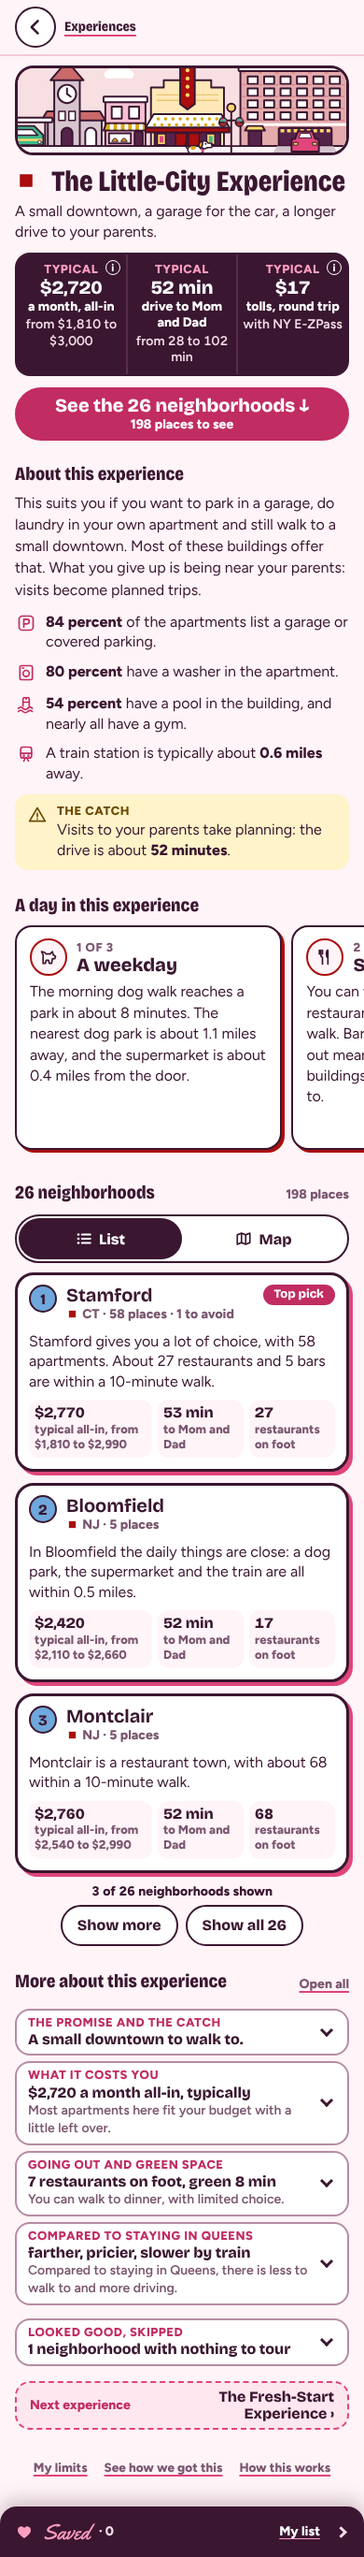
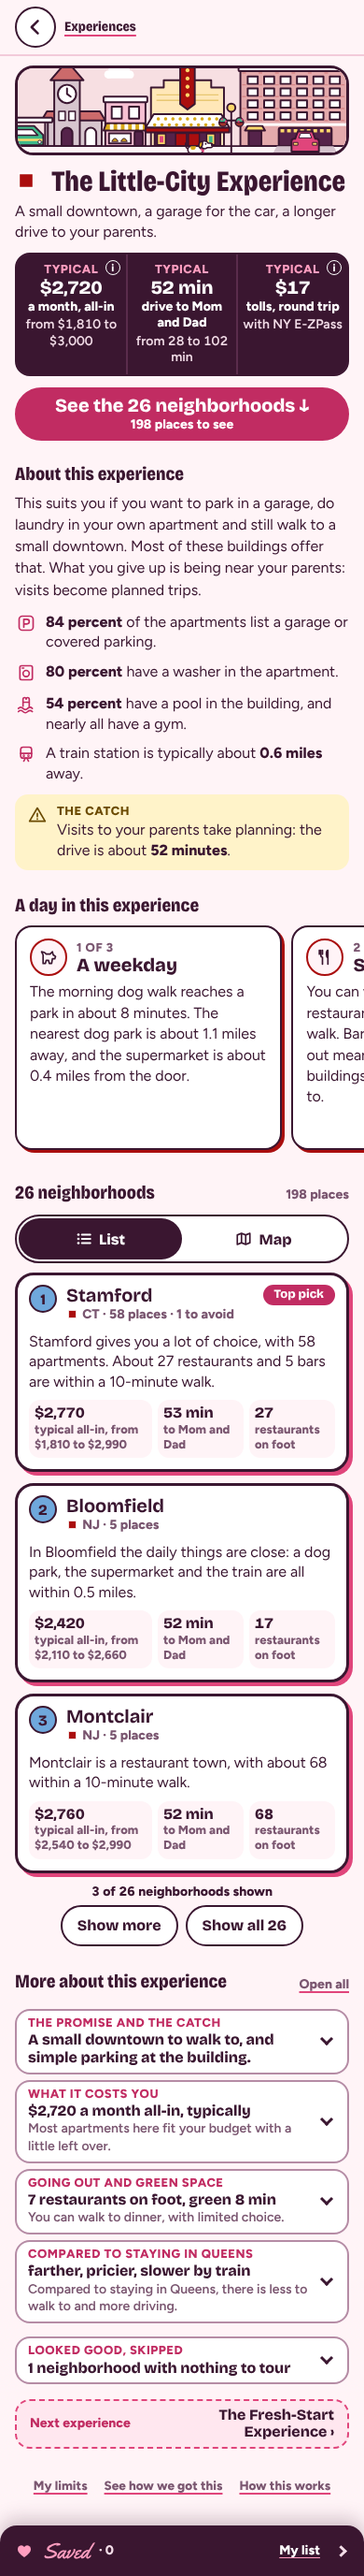
Owner rule recorded: thin single-apartment neighborhoods are cut unless well attested and promising
Claude-Session: https://claude.ai/code/session_01QmsfsQ2hk5v2h8XwNhCh1P

Changed region(s): [[0.0308, 0.0311, 1.0, 0.933], [0.8308, 0.9641, 0.8615, 0.9952]]

diff --git a/house-hunt/site/index.html b/house-hunt/site/index.html
@@ -1562,7 +1562,8 @@ function seenShort(iso){if(!iso)return "date seen not known";
   try{return "seen "+new Date(iso).toLocaleDateString("en-US",{month:"short",day:"numeric",timeZone:"America/New_York"})}catch(e){return "seen "+dayStr(iso)}}
 function seenLong(iso){if(!iso)return NK;
   try{return new Date(iso).toLocaleString("en-US",{month:"short",day:"numeric",year:"numeric",hour:"numeric",minute:"2-digit",timeZone:"America/New_York"})+" New York time"}catch(e){return String(iso)}}
-function distWords(m){if(m==null)return NK;if(m<=1600)return "a "+Math.max(1,Math.round(m/WALK_M_PER_MIN))+"-minute walk";var mi=m/1609.34;return (mi<3?Math.round(mi*10)/10:Math.round(mi))+(Math.round(mi*10)===10||(mi>=3&&Math.round(mi)===1)?" mile":" miles")+" away"}
+function aWalk(n){n=Math.max(1,Math.round(n));return (n===8||n===11||n===18||(n>=80&&n<90)?"an ":"a ")+n+"-minute walk"}
+function distWords(m){if(m==null)return NK;if(m<=1600)return aWalk(m/WALK_M_PER_MIN);var mi=m/1609.34;return (mi<3?Math.round(mi*10)/10:Math.round(mi))+(Math.round(mi*10)===10||(mi>=3&&Math.round(mi)===1)?" mile":" miles")+" away"}
 function ext(url,label){url=okUrl(url);return url?' <a class="srcl" href="'+esc(url)+'" target="_blank" rel="noopener noreferrer">'+esc(label||"source")+' ↗</a>':''}
 function hostOf(url){try{return new URL(url).hostname.replace(/^www\./,"")}catch(e){return "source"}}
 function humanize(k){k=String(k||"").replace(/_/g," ");return k.charAt(0).toUpperCase()+k.slice(1)}
@@ -1745,15 +1746,15 @@ function tourQs(U){var q=(U.tour_questions||[]).slice(),add=[];
 /* ================= Template sentences. Every sentence on the page that is not quoted evidence,
    approved year text (label, subhead) or interface copy is built here from data fields. ================= */
 var SAY={
-  size:function(U){var s="A "+bedsNoun(U)+(U.sqft!=null?" of "+r0(U.sqft)+" sq ft":", size not known yet,");
+  size:function(U){var s="A "+bedsNoun(U)+(U.sqft!=null?" of "+r0(U.sqft)+" sq ft":", size not published");
     if(U.floor!=null)s+=" on floor "+r0(U.floor)+(U.floor_basis==="inferred"?" (floor worked out from the unit number)":"");
-    else s+=", floor not known yet";return s+"."},
-  park:function(w){return w.park&&w.park_walk_min!=null?w.park+" is a "+Math.max(1,r0(w.park_walk_min))+"-minute walk.":w.park_walk_min!=null?"Green space is a "+Math.max(1,r0(w.park_walk_min))+"-minute walk.":"Walk to green space: "+NK+"."},
+    else s+=", floor not published";return s+"."},
+  park:function(w){return w.park&&w.park_walk_min!=null?w.park+" is "+aWalk(w.park_walk_min)+" away.":w.park_walk_min!=null?"A park is "+aWalk(w.park_walk_min)+" away.":"Walk to green space: "+NK+"."},
   dogpark:function(w){return w.dog_park_m==null?"Nearest dog park: "+NK+".":(w.dog_park?w.dog_park:"The nearest dog park")+" is "+distWords(w.dog_park_m)+"."},
   food:function(a){return a.restaurants_800m==null?"Restaurants nearby: "+NK+".":pl(a.restaurants_800m,"restaurant")+" and "+(a.bars_800m==null?"an unknown number of bars":pl(a.bars_800m,"bar"))+" within a 10-minute walk."},
   drive:function(s){if(s.drive_min==null)return "Drive to Mom and Dad: "+NK+".";
     return r0(s.drive_min)+" minutes by car to Mom and Dad; "+SAY.toll(s)+"."},
-  toll:function(s){return s.toll_round_trip==null?"tolls not known yet":s.toll_round_trip===0?"no tolls":money(s.toll_round_trip)+" in tolls a visit"+ezNote(s)},
+  toll:function(s){return s.toll_round_trip==null?"tolls not known yet":s.toll_round_trip===0?"no tolls":tollMoney(s.toll_round_trip)+" in tolls, round trip"+ezNote(s)},
   crime:function(n){var x=n.violent_vs_jamaica;if(x==null)return "Violent crime here: "+NK+".";
     if(Math.abs(x-1)<0.005)return "Violent crime here runs at the same rate as around Mom and Dad's.";
     return "Violent crime here runs at "+times(x)+" the rate around Mom and Dad's."},
@@ -1829,7 +1830,7 @@ function factsOf(U,k){var m=U.moments,L=okUrl(U.links&&U.links.listing),o=[],a=U
     f(n.violent_per_1000==null?"Violent crime rate: "+NK+".":r1(n.violent_per_1000)+" violent crimes per 1,000 residents a year here; "+(JAM.violent_per_1000!=null?JAM.violent_per_1000+" around Mom and Dad's.":""));
     f(n.near_violent_250m_24m==null?"Violent incidents within 250 metres: "+NK+" (police publish this only in New York City).":pl(n.near_violent_250m_24m,"violent incident")+" within 250 metres in 24 months"+(n.near_violent_evening_250m_24m!=null?", "+r0(n.near_violent_evening_250m_24m)+" of them in the evening":"")+" (police data).");
     f(n.car_crime_250m_24m==null?"Car thefts and break-ins within 250 metres: "+NK+".":pl(n.car_crime_250m_24m,"car theft or break-in","car thefts and break-ins")+" within 250 metres in 24 months (police data).");
-    f(n.vehicle_theft_per_1000==null?"Car theft rate: "+NK+".":r1(n.vehicle_theft_per_1000)+" car thefts per 1,000 residents a year.");
+    f(n.vehicle_theft_per_1000==null?"Car theft rate: "+NK+".":r1(n.vehicle_theft_per_1000)+(Number(r1(n.vehicle_theft_per_1000))===1?" car theft":" car thefts")+" per 1,000 residents a year.");
     if(n.police_geography)f("These rates describe the police area, not the block: "+n.police_geography+".")}
   else if(k==="sat"){var s=m.sat;
     f(s.bars_1600m==null?"Bars within a mile: "+NK+".":pl(s.bars_1600m,"bar")+" within a mile.");
@@ -2034,13 +2035,13 @@ function plainCats(x){return String(x).replace(/\b[a-z]+(?:_[a-z]+)+\b/g,functio
 function splitNotes(s){return String(s||"").split(/;\s*/).filter(Boolean).map(function(x){x=plainCats(x);return x.charAt(0).toUpperCase()+x.slice(1)})}
 
 function yearFacts(Y){var M=Y.medians||{},o=[];
-  if(M.all_in!=null)o.push("A typical place: "+(M.sqft!=null?r0(M.sqft)+" sq ft for ":"")+money(Math.round(M.all_in))+" a month, all-in");
-  if(M.drive_min!=null)o.push("A typical drive to Mom and Dad: "+r0(M.drive_min)+" minutes, "+(M.toll_round_trip==null?"tolls not known yet":M.toll_round_trip===0?"no tolls":money(M.toll_round_trip)+" in tolls a visit"+ezNote(M)));
-  if(M.restaurants_800m!=null)o.push(pl(M.restaurants_800m,"restaurant")+" within a 10-minute walk"+(M.park_walk_min!=null?"; green space a "+Math.max(1,r0(M.park_walk_min))+"-minute walk":""));
+  if(M.all_in!=null)o.push("A typical apartment: "+(M.sqft!=null?r0(M.sqft)+" sq ft for ":"")+money(Math.round(M.all_in))+" a month, all-in");
+  if(M.drive_min!=null)o.push("A typical drive to Mom and Dad: "+r0(M.drive_min)+" minutes, "+(M.toll_round_trip==null?"tolls not known yet":M.toll_round_trip===0?"no tolls":tollMoney(M.toll_round_trip)+" in tolls, round trip"+ezNote(M)));
+  if(M.restaurants_800m!=null)o.push(pl(M.restaurants_800m,"restaurant")+" within a 10-minute walk"+(M.park_walk_min!=null?"; a park is "+aWalk(M.park_walk_min)+" away":""));
   return o}
 function hoodFacts(H){var o=[],t=H.traits||{},s=H.safety||{};
   if(t.restaurants_800m!=null)o.push(SAY.food(t).replace(/\.$/,""));
-  if(t.park_walk_min!=null)o.push("Green space is a "+Math.max(1,r0(t.park_walk_min))+"-minute walk");
+  if(t.park_walk_min!=null)o.push("A park is "+aWalk(t.park_walk_min)+" away");
   return o}
 /* "What residents say": quotes grouped by theme, newest first, with as many positive as negative shown wherever a theme
    has both (the rest sit in a fold); survey figures as plain sentences. No names are shown. Never disappears when empty. */
@@ -2264,12 +2265,7 @@ var HL={
     if(!ps.length||r.found_any===false)return r.searched?"No reviews found online":"Not looked up yet";
     return Number(t.rating).toFixed(1)+" on "+t.platform+(t.count!=null?" · "+pl(Math.round(t.count),"review"):"")+(ps.length>1?", and "+(ps.length-1)+" more "+(ps.length===2?"site":"sites"):"")},
   /* prose as a headline: the first sentence when it fits; otherwise its opening clause, whole, with no ellipsis */
-  first:function(t,n){n=n||HL_MAX;var s=firstSentence(calm(t)).replace(/\s+/g," ").trim(),re=/[,;:]\s+|\s+(?=(?:and|but|so|with|where|while|which)\s)/g,m,best=0,soft=Math.min(n,HL_AIM);
-    if(s.length<=soft)return s;
-    while((m=re.exec(s))){if(m.index<=soft-1&&m.index>=18)best=m.index}
-    if(!best&&s.length<=n)return s;
-    if(!best){re.lastIndex=0;while((m=re.exec(s))){if(m.index<=n-1&&m.index>=18)best=m.index}}
-    return best?s.slice(0,best).replace(/[,;:\s]+$/,"")+".":cut(s,n)}
+  first:function(t){return firstSentence(calm(t)).replace(/\s+/g," ").trim()}
 };
 
 /* ---- first screen: six short cards ---- */
@@ -2394,9 +2390,9 @@ function kfacts(cells,dark){cells=cells.filter(Boolean);var anyT=cells.some(func
     return c.act?'<button type="button" class="kfc" data-act="'+c.act+'"'+(c.attr||'')+' aria-haspopup="dialog">'+inner+'</button>':'<div class="kfc">'+inner+'</div>'}).join("")+'</div>'}
 function tollFact(o,typ,kind,id){var t=o&&o.toll_round_trip;if(t==null)return {b:"Ask",s:"tolls not fully known"};if(Number(t)===0)return {t:typ?"typical":"",b:"No tolls",s:"on the drive"};
   return {t:typ?"typical":"",b:tollMoney(t),s:"tolls, round trip",r:'<small class="rng">with NY E-ZPass</small>',act:"toll-info",attr:' data-kind="'+kind+'" data-id="'+esc(id)+'"'}}
-function tollSheet(o,name,typ){var t=o.toll_round_trip,m=tollMail(o);
-  return shTop("Tolls, round trip",esc(name))+'<p>'+(typ?"A typical drive":"The drive")+' to Mom and Dad and back costs '+money(t)+' in tolls with a New York E-ZPass: the small tag on the windshield that pays each toll at the lower rate.</p>'+(m!=null&&m>0?'<p style="margin-top:8px">Without the tag the bill comes by mail'+(typ?', typically ':': ')+money(m)+' a round trip.</p>':'')+how("tolls from "+SOURCES.tolls)}
-function allInSheet(us,name){return shTop("All-in, a month",esc(name))+allInLine(us)}
+function tollSheet(o,name,typ){var t=o.toll_round_trip;
+  return shTop("Tolls, round trip",esc(name))+'<p>'+(typ?"A typical drive":"The drive")+' to Mom and Dad and back costs '+money(t)+' in tolls with a New York E-ZPass: the small tag on the windshield that pays each toll at the lower rate.</p>'+howHtml('<p>An out-of-state tag pays more at MTA crossings.</p><p>'+esc(capFirst("tolls from "+SOURCES.tolls))+'.</p>')}
+function allInSheet(us,name){return shTop("All-in",esc(name))+'<p style="margin-bottom:8px"><b>A month, everything included.</b></p>'+allInLine(us)}
 function costFact(us,cost,r,typ,kind,id){return cost!=null?{t:typ?"typical":"",b:typ?m10(cost):m0(cost),s:"a month, all-in",r:typ?rngFrom(r,m10):"",act:"allin-info",attr:' data-kind="'+kind+'" data-id="'+esc(id)+'"'}:null}
 /* the short street-parking answer: the rule that changes what she does, in two or three words */
 var PARK_SHORT=[["overnight_parking","Overnight limits"],["resident_permit","Permit zones"],["alternate_side","Street-cleaning days"],["snow_emergency","Snow-day bans"],["meter_hours","Metered streets"]];
@@ -2459,11 +2455,11 @@ function vYear(Y){
   if(us.length)costHow.push("The big figure is the median of the "+pl(us.length,"place")+" here: half cost more, half less. The small one is the lowest and the highest.");
   if(c)costHow.push("All-in runs from "+money(c[0])+" to "+money(c[1])+" a month"+(seenRange(us)?" (prices "+seenRange(us)+")":"")+".");
   if(near&&far&&near!==far)costHow.push("The nearest neighborhood is "+near.name+", "+r0(near.drive_min)+" minutes by car; the farthest is "+far.name+", "+r0(far.drive_min)+".");
-  if(M.toll_round_trip!=null&&tollMail(M)!=null)costHow.push(tollMail(M)>0?"Tolls are the New York E-ZPass figure. By mail they are typically "+money(tollMail(M))+" a round trip.":"No tolls either way.");
+  if(M.toll_round_trip!=null&&tollMail(M)!=null)costHow.push(tollMail(M)>0?"Tolls are the New York E-ZPass figure. An out-of-state tag pays more at MTA crossings.":"No tolls either way.");
   costHow.push(capFirst(["prices from "+SOURCES.listing,"drive times, with clear roads, from "+SOURCES.drive,"tolls from "+SOURCES.tolls,"train and bus from "+SOURCES.transit,"restaurant counts and walks to green space from "+SOURCES.map].join("; "))+".");
   h+='<section class="sec rows" id="sec-rows"><h2 class="h2s">More about this experience</h2>'+rowsTop();
   if(scenes||prom||kat)h+=row("r-scene","The promise and the catch",wholeHead([prom,kat,pr(Y,"scene")||Y.scenes],"what you gain, and what you give up"),scenes+(prom||kat?'<div class="two"'+(scenes?' style="margin-top:10px"':'')+'>'+(prom?'<div class="panel love"><h3>The promise</h3><p>'+esc(prom)+'</p></div>':'')+(kat?'<div class="panel pause"><h3>The catch</h3><p>'+esc(kat)+'</p></div>':'')+'</div>':''),{sub:dm.length?"":hlSub(Y,"day","scene")});
-  if(us.length)h+=row("r-cost","What it costs you",HL.yearCost(Y),allInLine(us)+'<div class="figs" style="margin-top:8px"><div>'+(f.cost!=null?'<b>'+m0(f.cost)+'</b><span>a month, all-in, typical</span>'+rngFrom(f.cr,m0):'<b>'+NK+'</b>')+'</div><div>'+(f.drive!=null?'<b>'+r0(f.drive)+' min</b><span>to Mom and Dad, typical</span>'+rngFrom(f.dr,r0," min"):'<b>'+NK+'</b>')+'</div></div>'+(M.transit_min!=null?'<p style="margin-top:8px">'+r0(M.transit_min)+' minutes by train and bus, typically.</p>':'')+(M.sqft!=null?'<p>A typical place is '+r0(M.sqft)+' sq ft.</p>':'')+howHtml('<p>'+costHow.map(esc).join('</p><p>')+'</p>'),{sub:hlSub(Y,"cost","to_parents")});
+  if(us.length)h+=row("r-cost","What it costs you",HL.yearCost(Y),allInLine(us)+'<div class="figs" style="margin-top:8px"><div>'+(f.cost!=null?'<b>'+m0(f.cost)+'</b><span>a month, all-in, typical</span>'+rngFrom(f.cr,m0):'<b>'+NK+'</b>')+'</div><div>'+(f.drive!=null?'<b>'+r0(f.drive)+' min</b><span>to Mom and Dad, typical</span>'+rngFrom(f.dr,r0," min"):'<b>'+NK+'</b>')+'</div></div>'+(M.transit_min!=null?'<p style="margin-top:8px">'+r0(M.transit_min)+' minutes by train and bus, typically.</p>':'')+(M.sqft!=null?'<p>A typical apartment is '+r0(M.sqft)+' sq ft.</p>':'')+howHtml('<p>'+costHow.map(esc).join('</p><p>')+'</p>'),{sub:hlSub(Y,"cost","to_parents")});
   if(M.restaurants_800m!=null||M.park_walk_min!=null)h+=row("r-out","Going out and green space",HL.out(M),'<ul>'+lis(yf.slice(2).concat(hlSub(Y,"green")&&hlSub(Y,"going_out")?[hlSub(Y,"green")]:[]))+'</ul>'+how("restaurant counts and walks to green space from "+SOURCES.map),{sub:hlSub(Y,"going_out","green")});
   if(SPEC_OPEN.length&&Y.vs_queens&&SPEC_OPEN.some(function(s){return Y.vs_queens[s.measure]!=null}))h+=row("r-queens","Compared to staying in Queens",HL.queens(Y.vs_queens),SCALE_KEY+'<div class="ylist">'+SPEC_OPEN.map(function(s){var p=Y.vs_queens[s.measure],dk=YEAR_DIFF_KEY[s.measure],d=dk&&Y.vs_queens_diff?Y.vs_queens_diff[dk]:null;p=p==null?null:Math.round(p);
       return pointBtn("year",Y.id,s.measure,p,d==null?(p===3?"same":"difference not in the data"):fmtDiff(s.measure,d),true)}).join("")+'</div>',{sub:hlSub(Y,"compared_to_queens","queens")});
@@ -2503,7 +2499,7 @@ function vHood(H){
   var pRules=rulesOf(H,"parking_rules"),carBits=[],kinds={},dogBits=[],foodBits=[],errBits=[],whoBits=[];
   H.units.forEach(function(U){var w=parkWord(U);kinds[w]=(kinds[w]||0)+1});
   Object.keys(kinds).forEach(function(w){carBits.push(kinds[w]+" of "+N+": "+w.toLowerCase())});
-  if(t.park_walk_min!=null)dogBits.push("Green space is a "+Math.max(1,r0(t.park_walk_min))+"-minute walk");
+  if(t.park_walk_min!=null)dogBits.push("A park is "+aWalk(t.park_walk_min)+" away");
   if(t.park_ha_800m!=null)dogBits.push(r1(t.park_ha_800m)+" hectares of park within a 10-minute walk");
   if(t.dog_park_m!=null)dogBits.push("the nearest dog park is "+distWords(t.dog_park_m));
   if(t.restaurants_800m!=null)foodBits.push(pl(t.restaurants_800m,"restaurant"));if(t.bars_800m!=null)foodBits.push(pl(t.bars_800m,"bar"));if(t.cafes_800m!=null)foodBits.push(pl(t.cafes_800m,"café"));
@@ -2520,7 +2516,7 @@ function vHood(H){
   if(s.violent_per_1000!=null)sf.push(r1(s.violent_per_1000)+" violent crimes per 1,000 residents a year"+(s.year?" ("+Math.round(s.year)+")":"")+(JAM.violent_per_1000!=null?"; around Mom and Dad's it is "+JAM.violent_per_1000:"")+".");
   if(s.vs_jamaica!=null)sf.push(SAY.crime({violent_vs_jamaica:s.vs_jamaica})+(s.vs_us!=null?" Compared to the United States as a whole: "+times(s.vs_us)+".":""));
   if(s.property_per_1000!=null)sf.push(r1(s.property_per_1000)+" property crimes per 1,000 residents a year"+(s.property_vs_jamaica!=null?(Math.abs(s.property_vs_jamaica-1)<0.005?", the same rate as around Mom and Dad's":", "+times(s.property_vs_jamaica)+" the rate around Mom and Dad's"):"")+".");
-  if(s.vehicle_theft_per_1000!=null)sf.push(r1(s.vehicle_theft_per_1000)+" car thefts per 1,000 residents a year.");
+  if(s.vehicle_theft_per_1000!=null)sf.push(r1(s.vehicle_theft_per_1000)+(Number(r1(s.vehicle_theft_per_1000))===1?" car theft":" car thefts")+" per 1,000 residents a year.");
   if(sf.length&&s.geography)sf.push("These numbers describe the police area, not the block: "+s.geography+".");
   var hw=[];
   hw.push("<p>"+esc(capFirst(["parks, dog parks, food, shops and water from "+SOURCES.map,SOURCES.walk,"who lives here from the "+SOURCES.census,"local rules from the town pages linked beside each one","drive time, with clear roads, from "+SOURCES.drive,"tolls from "+SOURCES.tolls,"train and bus time from "+SOURCES.transit].join("; ")))+".</p>");
@@ -2566,9 +2562,12 @@ function momentSrc(U,k){var H=hoodOf(U),yr=H.safety&&H.safety.year;
   return {wake:[SOURCES.map,SOURCES.walk,"dog policy from "+SOURCES.listing],work:["size and rooms from "+SOURCES.listing,"cafés, gyms, libraries, supermarket and highway from "+SOURCES.map,SOURCES.walk],after:[SOURCES.map],
     night:["crime rates from "+crimeSrc(U.moments.night.police,yr),"parking, front desk and entry from "+SOURCES.listing],sat:["bars, restaurants, music and the station from "+SOURCES.map,"the last ride home from "+SOURCES.transit,"parking from "+SOURCES.listing],
     sun:["drive time and miles from "+SOURCES.drive,"tolls from "+SOURCES.tolls,"train and bus from "+SOURCES.transit]}[k]||[]}
+var CRIME_LINE=/\bcrimes?\b|violen|burglar|\bthefts?\b|robber|assault|per 1,000|break-in|incident|police/i;
+function momentBody(U,k){var fs=factsOf(U,k),open=fs.filter(function(x){return !CRIME_LINE.test(x.t)}),cr=fs.filter(function(x){return CRIME_LINE.test(x.t)}),src=momentSrc(U,k);
+  return '<ul>'+factLis(open)+'</ul>'+(cr.length?howHtml('<ul>'+factLis(cr)+'</ul>'+(src.length?'<p>'+esc(capFirst(src.join("; ")))+'.</p>':'')):how.apply(null,src))}
 function dayStack(U){var d=dayOfUnit(U);
   return '<p class="momcount" id="mom-count">'+pl(d.length,"moment")+'</p><div class="moms">'+d.map(function(x){var id="m-"+x.k;
-    return '<details class="rowd mom" id="'+id+'" data-row="'+id+'"'+(rowOpen(id,false)?' open':'')+'><summary><span class="mi">'+ptIcon(MOM_IC[x.k])+'</span><span class="rl">'+esc(MOM_TITLE[x.k]||x.t)+lvlChip(x.tint)+'</span><span class="rh">'+esc(x.cap)+'</span><i class="chev" aria-hidden="true"></i></summary><div class="rb"><ul>'+factLis(factsOf(U,x.k))+'</ul>'+how.apply(null,momentSrc(U,x.k))+'</div></details>'}).join("")+'</div>'}
+    return '<details class="rowd mom" id="'+id+'" data-row="'+id+'"'+(rowOpen(id,false)?' open':'')+'><summary><span class="mi">'+ptIcon(MOM_IC[x.k])+'</span><span class="rl">'+esc(MOM_TITLE[x.k]||x.t)+lvlChip(x.tint)+'</span><span class="rh">'+esc(x.cap)+'</span><i class="chev" aria-hidden="true"></i></summary><div class="rb">'+momentBody(U,x.k)+'</div></details>'}).join("")+'</div>'}
 function saveBtn(ids,label,wide,pos,sub){var all=ids.length>0&&ids.every(function(id){return savedIx(id)>-1});
   return '<button type="button" class="btn savb '+(all?'held':'main')+(wide?' wide':'')+'" data-act="save" data-ids="'+esc(ids.join("\u0001"))+'"'+(pos?' data-pos="'+pos+'"':'')+' aria-pressed="'+all+'">'+HEART+(all?'<span>Saved<small>Tap to take it off your list</small></span>':sub?'<span class="sv2">'+esc(label)+' <small>'+esc(sub)+'</small></span>':esc(label))+'</button>'}
 var HEART='<svg class="hrt" viewBox="0 0 24 24" width="20" height="20" aria-hidden="true"><path d="M12 20.500c-5.500-3.800-8.500-7-8.500-10.600A4.700 4.700 0 0 1 12 7.200a4.700 4.700 0 0 1 8.500 2.700c0 3.600-3 6.800-8.500 10.600z" fill="currentColor"/></svg>';
@@ -2795,7 +2794,7 @@ function openLimits(on){var was=limsheet.classList.contains("open");if(on===was)
   if(on){try{limsheet.querySelector("h2").focus({preventScroll:true})}catch(e){}}else if(lastFocus&&lastFocus.focus&&document.contains(lastFocus)){try{lastFocus.focus({preventScroll:true})}catch(e){}}}
 function tourText(){var H=listSorted();
   return "LAMIA'S TOUR LIST\nData built "+seenLong(META.built_at)+". Prices are as seen on the dates shown.\n\n"+H.map(function(U,i){var R=U.rent||{},q=tourQs(U),c=conf(U);
-    return (i+1)+". "+uName(U)+(U.unit?", unit "+U.unit:"")+"\n   "+(U.address||"Address not known yet")+" · "+hoodOf(U).name+" ("+yearOf(U).label+")\n   "+money(U.all_in)+(R.asterisk?"*":"")+" all-in a month, "+seenShort(U.price_seen_at)+" · "+bedsWord(U)+", "+(U.sqft!=null?r0(U.sqft)+" sq ft":"size not known yet")+" · "+parkWord(U)+
+    return (i+1)+". "+uName(U)+(U.unit?", unit "+U.unit:"")+"\n   "+(U.address||"Address not known yet")+" · "+hoodOf(U).name+" ("+yearOf(U).label+")\n   "+money(U.all_in)+(R.asterisk?"*":"")+" all-in a month, "+seenShort(U.price_seen_at)+" · "+bedsWord(U)+", "+(U.sqft!=null?r0(U.sqft)+" sq ft":"size not published")+" · "+parkWord(U)+
       (R.asterisk?"\n   * Rent offer: "+(offerText(U)||"a special offer applies.")+(R.gross!=null?" A paying month is "+money(R.gross)+" rent"+(U.all_in_gross!=null?", "+money(U.all_in_gross)+" all-in":"")+".":"")+(R.needs_call?" Needs a call.":""):"")+
       confs(U).map(function(c){return "\n   * Still to confirm: "+cWhat(c)+"."+(c.why?" "+c.why:"")}).join("")+
       (discs(U).length?"\n   Good to know before you call: "+discs(U).map(function(d){return d.what}).join("; ")+".":"")+
@@ -2871,7 +2870,7 @@ window.addEventListener("resize",fitTray);
 document.addEventListener("toggle",function(e){var d=e.target,id=d&&d.getAttribute&&d.getAttribute("data-row");if(id&&view.contains(d))(OPENED[current]=OPENED[current]||{})[id]=d.open},true);
 window.addEventListener("hashchange",function(){var r=location.hash.replace(/^#/,"")||"lives";if(routeOf(parse(r))!==current){closeSheet();go(r)}});
 
-window.__houseHunt={bldgs:function(){return BLDGS.map(function(B){return {id:B.id,slug:SLUG.bldg[B.id],hood:B.hood.id,units:B.units.map(function(u){return u.id})}})},state:function(){return {saved:S.saved.slice(),pick:S.pick.slice(),sort:S.sort}},tint:function(id,k){return U_BY[id]?tintOf(U_BY[id],k):null},sentences:sentences,payNote:payNote,ptBody:ptBody,parkShort:parkShort,distShort:distShort,HL:HL,HL_MAX:HL_MAX,cleanText:cleanText,looksDump:looksDump,hoodWhere:hoodWhere,hoodTitle:hoodTitle,headline:function(kind,id,key){var o=kind==="unit"?U_BY[id]:kind==="hood"?H_BY[id]:Y_BY[id];if(!o)return null;
+window.__houseHunt={bldgs:function(){return BLDGS.map(function(B){return {id:B.id,slug:SLUG.bldg[B.id],hood:B.hood.id,units:B.units.map(function(u){return u.id})}})},state:function(){return {saved:S.saved.slice(),pick:S.pick.slice(),sort:S.sort}},tint:function(id,k){return U_BY[id]?tintOf(U_BY[id],k):null},sentences:sentences,aWalk:aWalk,payNote:payNote,ptBody:ptBody,parkShort:parkShort,distShort:distShort,HL:HL,HL_MAX:HL_MAX,cleanText:cleanText,looksDump:looksDump,hoodWhere:hoodWhere,hoodTitle:hoodTitle,headline:function(kind,id,key){var o=kind==="unit"?U_BY[id]:kind==="hood"?H_BY[id]:Y_BY[id];if(!o)return null;
     return key==="trip"?HL.trip(kind==="unit"?o.moments.sun:o):key==="queens"?HL.queens(o.vs_queens):key==="reviews"?HL.reviews(o.ratings):HL[key](o)},map:function(){return HHMAP},marks:function(){return YEARS.map(function(Y){return Y.mark})},mapHoods:function(id){return mapData().neighborhoods.filter(function(h){return !id||h.year===id}).length},tourText:tourText,tourQs:function(id){return U_BY[id]?tourQs(U_BY[id]):null},TINT:TINT,SOURCES:SOURCES};
 syncSliders();renderCounts();renderTray();renderFoot();
 go((function(){try{return location.hash.replace(/^#/,"")}catch(e){return ""}})()||"lives");

diff --git a/house-hunt/scripts/site_walkthrough_test.js b/house-hunt/scripts/site_walkthrough_test.js
@@ -263,7 +263,7 @@ const LIMITS = { experience: 3.6, neighborhood: 3.6, building: 2.6, 'building, m
     confirm: '1 thing to confirm · 2 to ask', confirmRent: '1 thing to confirm', confirmAsk: '1 to ask', confirmNone: 'nothing',
     reviews: '4.2 on Google · 149 reviews, and 2 more sites', reviewsOne: '4.0 on Google · 1 review', reviewsTwo: '4.5 on Google · 20 reviews, and 1 more site',
     reviewsNone: 'No reviews found online', reviewsNotYet: 'Not looked up yet', reviewsMissing: 'Not looked up yet',
-    firstLong: 'There is a real night out on foot here.', firstMax: 64,
+    firstLong: 'There is a real night out on foot here, with neighbors your age and a dog run that stays busy until late in the evening.', firstMax: 64,
     dump: ['', 'First month free on a 13-month lease', 'NOW OFFERING 1 MONTH FREE', ''],
     questions: 'nothing flagged', first: 'It has 2.5 miles of beach.' });
 
@@ -316,6 +316,7 @@ const LIMITS = { experience: 3.6, neighborhood: 3.6, building: 2.6, 'building, m
     const about = await page.textContent('#about'), sents = await page.evaluate(x => window.__houseHunt.sentences(x), Y1.host.intro || '');
     for (const s of sents) if (s.length > 30) assert(!(await page.textContent('#sec-day')).includes(s), 'the day repeats nothing from the About text: ' + s);
     const all = await page.evaluate(() => document.getElementById('view').textContent); for (const d of dm) { const s = d.p.slice(0, 60); assert.strictEqual(all.split(s).length - 1, 1, 'each passage appears once on the page: ' + s); } }
+  { await page.click('[data-act=rows-all]'); const t = await page.evaluate(() => document.getElementById('view').textContent); assert(!/by mail/i.test(t) && !/a 8-minute|a 11-minute|a 18-minute/.test(t) && !/,,/.test(t) && !/typical place is/.test(t), 'no by-mail toll figure and no "a 8-minute" anywhere on the experience, rows open'); await page.click('[data-act=rows-all]'); }
   // the story order of the page: drawing, title, key facts, the way on, About, the day, the neighborhoods, then the rows
   { const ys = await page.evaluate(() => ['.ph1', '#keyfacts', '#see-hoods', '#about', '#sec-day', '#sec-hoods', '#sec-rows'].map(s => { const e = document.querySelector(s); return e ? Math.round(e.getBoundingClientRect().top + window.scrollY) : null; }).filter(v => v != null)); assert.deepStrictEqual(ys, ys.slice().sort((a, b) => a - b), 'in story order: ' + ys);
     const sizes = await page.evaluate(() => [...new Set([...document.querySelectorAll('#view .pg p, #view .pg li, #view .pg small, #view .pg b, #view .pg span, #view .pg h2, #view .pg h3')].filter(e => e.getClientRects().length && e.textContent.trim() && !e.closest('svg') && !e.closest('.rb') && !e.closest('.hhmap')).map(e => parseFloat(getComputedStyle(e).fontSize)))].sort((a, b) => a - b)); assert(sizes[0] >= 12.5, 'nothing on the page is under 12.5 px: ' + sizes); console.log('experience: text sizes in the open', sizes.join(', ')); }
@@ -493,7 +494,10 @@ const LIMITS = { experience: 3.6, neighborhood: 3.6, building: 2.6, 'building, m
   // "A day here": a stack of closed rows, one per moment: icon, title, one-line takeaway, and a chip in three levels where the data can say
   await go('#bldg-' + bSlug(star), '.bpage'); await openRow('r-day');
   { const B0 = bUnits(star)[0], KS = ['wake', 'work', 'after', 'night', 'sat', 'sun'], ms = await page.evaluate(() => [...document.querySelectorAll('#r-day details.mom')].map(d => ({ id: d.id, open: d.open, icon: d.querySelectorAll('summary .mi svg').length, title: d.querySelector('summary .rl').firstChild.textContent.trim(), take: d.querySelector('summary .rh').textContent, chip: (d.querySelector('summary .lvl') || {}).textContent || '', chev: d.querySelectorAll('summary .chev').length })));
-    assert.deepStrictEqual(ms.map(m => m.id), KS.map(k => 'm-' + k)); assert.strictEqual((await page.textContent('#mom-count')).trim(), '6 moments', 'it says how many are below');
+    assert.deepStrictEqual(ms.map(m => m.id), KS.map(k => 'm-' + k));
+    // crime wording of the night moment is only inside its closed "See how we got this"; "an 8-minute walk", never "a 8-minute"
+    { await page.click('#m-night > summary'); const vis = await page.evaluate(() => document.getElementById('m-night').innerText); assert(!CRIME.test(vis), 'no crime line in the open night moment: ' + (CRIME.exec(vis) || [''])[0]); await page.click('#m-night > summary');
+      assert.deepStrictEqual(await page.evaluate(() => [8, 11, 18, 5, 80, 1].map(n => window.__houseHunt.aWalk(n))), ['an 8-minute walk', 'an 11-minute walk', 'an 18-minute walk', 'a 5-minute walk', 'an 80-minute walk', 'a 1-minute walk']); } assert.strictEqual((await page.textContent('#mom-count')).trim(), '6 moments', 'it says how many are below');
     const tints = await page.evaluate(([id, ks]) => ks.map(k => window.__houseHunt.tint(id, k)), [B0.id, KS]);
     ms.forEach((m, i) => { assert(!m.open && m.icon === 1 && m.chev === 1 && m.title && m.take, 'closed, with icon, title, takeaway and caret: ' + JSON.stringify(m)); assert.strictEqual(m.chip, { s: 'Strong', m: 'Mixed', w: 'Weak' }[tints[i]] || '', 'the chip is the level, and absent where the data cannot say: ' + m.id); });
     assert(!CRIME.test(await page.evaluate(() => document.getElementById('r-day').innerText)), 'no crime figure on a moment row');
@@ -763,7 +767,7 @@ const LIMITS = { experience: 3.6, neighborhood: 3.6, building: 2.6, 'building, m
   assert(subStyle.headW > subStyle.subW && subStyle.lines <= 2, 'headline strong, subhead lighter and at most two lines: ' + JSON.stringify(subStyle));
   // tolls: the E-ZPass figure, with its note when a mail rate is also present
   { const chips = await page2.textContent('.sec.head #keyfacts'); assert(chips.includes('$14') && !chips.includes('13.50') && chips.includes('NY E-ZPass') && !chips.includes('21.25'), 'E-ZPass figure, to the dollar, with its note: ' + chips);
-    await page2.click('#keyfacts [data-act="toll-info"]'); await page2.waitForSelector('#sheet.open'); const sh = await page2.textContent('#sheetBody'); assert(sh.includes('$13.50') && sh.includes('$21.25') && /by mail/.test(sh), 'the exact figures and the mail rate are behind the tap: ' + sh); await page2.click('#shClose'); await page2.waitForSelector('#sheet:not(.open)'); }
+    await page2.click('#keyfacts [data-act="toll-info"]'); await page2.waitForSelector('#sheet.open'); const sh = await page2.textContent('#sheetBody'); assert(sh.includes('$13.50') && !sh.includes('21.25') && !/by mail/i.test(sh) && /out-of-state tag/.test(sh), 'the exact figure is behind the tap; the by-mail figure is not shown anywhere (it rests on fewer apartments and misleads): ' + sh); await page2.click('#shClose'); await page2.waitForSelector('#sheet:not(.open)'); }
   // resident voices in their row
   assert((await headOf('r-voices', page2)).startsWith('3 positive, 2 negative'), 'the balance leads the headline, then what most of it is about: ' + await headOf('r-voices', page2)); await openRow('r-voices', page2);
   assert.strictEqual(await page2.locator('#no-voices').count(), 0); assert.strictEqual(await page2.locator('#sec-voices .vtheme').count(), 3, 'two themes and the survey heading');

diff --git a/house-hunt/docs/SITE_NOTES.md b/house-hunt/docs/SITE_NOTES.md
@@ -396,3 +396,127 @@ compare view of three.
 - Headlines longer than the row are cut with an ellipsis until the row is opened.
 - The first-run "How this works" card still opens on the first visit.
 - Old screenshots from earlier passes remain in `site/screens/`; this pass wrote `ux-*`, `map-int-*` and the numbered ones.
+
+## UI pass 5: experience and neighborhood pages
+
+(2026-11-16. Will: "go over as a UI/UX designer… especially the experience pages and the neighborhood pages… figure out
+ways we can be clearer… better storytelling". Also applies `docs/A11Y_READABILITY_AUDIT.md` and the data-side changes of
+the same day. Copy is not written in the template: every sentence on these two pages comes from `data.json`.)
+
+### Story order
+
+**Experience** (`vYear`, wrapper `.pg.pg-exp`): drawing (the *banner* crop, 96 px) → name and tagline → key facts →
+"See the N neighborhoods ↓" (with "M places to see" on the button) → About this experience → A day in this experience →
+the neighborhoods (List / Map, top three, Show more) → "More about this experience" rows (the promise and the catch;
+what it costs you; going out and green space; compared to staying in Queens) → the other-places rows (looked good,
+skipped; worth a phone call; not re-checked).
+
+**Neighborhood** (`vHood`, `.pg.pg-hood`): experience marker + rank + experience name → name → where → key facts →
+"See the N places ↓" ("in M buildings" on the button) → About <name> → At a glance → one pull quote → the buildings
+(top three, Show more) → avoid / phone call / not re-checked rows (they are about places, so they sit under the list)
+→ "More about <name>" rows (what residents say; how others describe it; the good and the catch; the area in detail;
+local rules; reviews of the buildings; compared to staying in Queens).
+
+### The pieces
+
+- **Key facts** (`kfacts`, `#keyfacts`): three cells, not four. All-in, drive to Mom and Dad, tolls. A median carries a
+  small "TYPICAL" tag above it and its range beneath, worded as a range ("from $1,810 to $2,990"). Sums are rounded to
+  $10 here (`m10`), tolls to the dollar (`tollMoney`, "under $1" below that), minutes whole; exact figures stay inside
+  the rows and sheets. A single-place neighborhood shows its exact price and no tag. The count cell is gone: the counts
+  ride on the button under the strip, which is where the old underlined "N places" cell led anyway (audit 7).
+  The all-in and toll cells are real buttons with an "i": all-in opens the one-line list of what it includes; tolls
+  opens what a round trip costs with a New York E-ZPass, what the tag is, and the by-mail figure.
+- **About** (`aboutBox`, `ptBody`, `catchBox`): lead, then the icon points. A point shows a bold lead-in when the data
+  gives one (`about_points[].lead`) or when the text is "Lead: rest"; otherwise its first figure is set in bold
+  ("about **72 minutes** away") so the list can be scanned. Points with `icon: "warning"` leave the list and go last in
+  a butter box labelled "The catch": distinct, no border, no red.
+- **A day in this experience** (`storyHtml`, `#sec-day`): three cards side by side in one sideways-scrolling strip
+  (80% wide, scroll-snap, the next card peeking in; keyboard-focusable). Each: icon in a ring of the experience colour,
+  "1 of 3", title, and when the text opens with a short sentence that sentence as a bold caption. Stacked cards were
+  the alternative: at 390 px three stacked moments are about 520 px of prose and read as a text block (that is what
+  the old row looked like when opened); the strip is about 250 px and reads as a storyboard. Chosen: the strip.
+- **At a glance** (`glance`, `#sec-glance`): two columns of icon facts, always in the same order: restaurants and bars
+  on foot; walk to a park; dog park; supermarket; Mom and Dad by train and bus; street parking in three words
+  (`parkShort`: "No overnight parking", "Resident permits only", "Street-cleaning days", "Snow-day bans", "Metered
+  streets", "N rules on record", "Ask the building"). The parking fact is a button that opens Local rules. Distances
+  under a mile are minutes on foot (`distShort`).
+- **Pull quote** (`pullPick`, `#pull`): one outside description, with its source link and "about <area>" when the data
+  says the quote is about a wider or narrower place. Picked: `described[].featured` if the data sets it, else the first
+  of 40 to 150 characters, else the shortest; never one with crime wording. The others stay in "How others describe
+  it", and none is shown twice. Resident quotes are not put in the open (they can mention crime); inside their row the
+  first quote is set larger, and safety themes are listed after daily-life themes.
+- **Rows**: residents' headline is the balance plus the commonest topic ("8 positive, 1 negative · mostly dogs and
+  green space"); "Reviews of the buildings" is new on the neighborhood (how many buildings have ratings, each linked);
+  "Good for you, watch for" is "The good and the catch"; "What's here" is "The area in detail" (its summary is now At a
+  glance); prose headlines are shown whole or replaced by a plain fallback (`wholeHead`), never cut with "…".
+- **Cards**: a neighborhood card's price chip reads "typical all-in, from $X to $Y"; a neighborhood with
+  `single_building` says "1 building, N apartments"; "Top pick" is withheld (card and page) when that one building still
+  has something to confirm.
+- **Type and spacing** on these two pages: 14 / 16 / 20 px plus the page title and 13 px caps labels; 26 px between
+  sections, no box around a section; the strip's small text went from 10.5 to 14 px.
+
+### Collapsed heights at 390 × 844 (under the sticky top line, to the end of the footer)
+
+| Page | Before this pass | After | "See …" button ends at (page y) |
+|---|---|---|---|
+| Experience, six of six | 2,150 to 2,357 (2.55 to 2.79 screens) | 2,568 to 2,794 (3.04 to 3.31) | before 508 to 539, after 471 to 502 (0.56 to 0.59 of a screen) |
+| Neighborhood, rich (Stamford) | 2,064 (2.45) | 2,677 (3.17) | 293 → 347 |
+| Neighborhood, Newark / West Side / Bridgeport / Hackensack | 2,034 to 2,104 | 2,737 to 2,838 (3.24 to 3.36) | about 363 |
+| Neighborhood, single building (Brookfield) | 1,558 (1.85) | 2,185 (2.59) | 281 → 331 |
+| Neighborhood, nothing to tour (McGinley Square) | 1,273 (1.51) | 1,835 (2.17) | none |
+
+The 2.5-screen aim is **not** met: the day (about 290 px), At a glance (about 200 px) and the pull quote (100 to 190 px)
+moved from behind a tap into the open, and small text grew. What did improve is where things are: the way on is inside
+0.6 of a screen on all six experiences, and the list starts after About and the story instead of after the rows. The
+walkthrough's ceilings are 3.6 screens for both page kinds.
+
+### Elsewhere (the brief's "obvious fixes", the audit, the data changes)
+
+- **Save this place** saves one apartment, the building's best-ranked; the button says which ("Unit 508, the top pick
+  of 8 here"), the toast names it, hearts on the rows save the others.
+- **Rent terms**: `first_full_payment_note` is never printed raw (`payNote`): "Counting from a Dec 1, 2026 move-in; a
+  first part-month is charged by the day." / "Ask when the free month applies." / nothing.
+- **Apartment price with an offer**: "$X* a month, with the current offer", and one line "With the current offer; a
+  normal month is $Y". "Net-effective" and "cap" are out of the open text ("your $3,000 limit").
+- **Compare**: column heads are two lines ("Unit 606" over the building), never ellipsised; the sentence uses the same
+  names, not "House 1"; × is 44 px; the best cell says "✓ Best".
+- **My list**: facts wrap instead of overlapping; labels 12.5 px; with two or three saved they arrive ticked.
+- **Sheets**: the page behind is `inert` while a sheet is open; the limits sheet has the scrim, `aria-modal`, focus on
+  its heading, and returns focus on close.
+- **Focus and history**: a route change focuses the `h1`; "See the … ↓" moves focus to the list heading; the trail's
+  links go `history.back()` when that is where they lead, else replace, so browser Back agrees; `scroll-padding` keeps
+  focus out from under the bar. First screen has an `h1`; cards are `h3`; headings and row labels have real spaces.
+- **Small text and contrast**: floors raised (nothing under 12.5 px in the open); row and map-control borders #B58CA5;
+  unselected map chips no longer faded; map labels darkened; the 31-to-60 drive band is further from its neighbours.
+- **320 px**: the map's experience chips are one row that scrolls sideways.
+- **Building-level data**: contact, About text and points, ratings and photos are read from `buildings[]` (`bView`),
+  a unit's copy is the last resort. A listing site's forwarding number is labelled "Listing-site number (forwards to
+  the office)", the button reads "Phone and hours", and the building's own site leads when there is one.
+  `scripts/build_site.py` keeps only those fields of `buildings[]`, keeps `local.survey[].source_area` (now read) and
+  drops `experience_score_basis` (the scoring sentence is no longer shown).
+- **Publish step**: `python3 scripts/build_artifact.py` after `build_site.py`; the walkthrough's "stripped and
+  re-wrapped" runs (phone and desktop) cover that shape and pass.
+
+### Not done, and why
+
+- **A one-apartment building does not open its apartment by default** (audit 16): it made the page 4,076 px tall
+  collapsed, against the owner's rule that every section starts as a headline.
+- **The map is still the List / Map switch**, not a collapsed row: it is a second view of the same list, one tap away.
+- **"Only show what differs" is still on by default; the bar still reads "Saved · N"** (audit 26, 21): both are covered
+  by existing walkthrough assertions and are the owner's earlier choices.
+- **"floor not published", "parking rules not found, ask"** and other ask-phrases (audit 18) are unchanged.
+- Compare row titles are still `h4`; the tray is still a `div`; font sizes are still px; fonts are still remote.
+- The rent offer is still told in several places inside an open apartment (audit 22); only the wording changed.
+- "Places" is still the umbrella word on buttons and counts ("See the 58 places · in 25 buildings").
+
+### Weak
+
+- **About points repeat the strip and At a glance** on most neighborhoods ("Your parents are about 53 minutes away",
+  "About 24 restaurants…"): the points are numeric restatements. Nothing is hidden; the fix is in the copy.
+- Bold figures in points come from a pattern (`QTY_RE`), not from the writer: a point with no number has no bold.
+- The pull quote is chosen by length, so it can be the dullest description (an encyclopedia sentence).
+- The story strip hides cards two and three until she swipes; only the peeking edge says there is more.
+- At 320 px the strip's cells are tight ("a month, all-in" wraps to two lines).
+- Data that would help: `about_points[].lead`; `described[].featured`; `traits.station_m` + station name; names of
+  the nearest park and dog park; `day_moments[].caption`; a one-line `headlines.residents_say.headline`; a written
+  three-word `local.street_parking_short`; `years[].counts` used for the strip so text and figures share one source.

diff --git a/house-hunt/CLAUDE.md b/house-hunt/CLAUDE.md
@@ -215,3 +215,7 @@ Decisions by Will that changed or replaced an earlier one. Dates are UTC days of
 | 2026-11-16 | Ratings shown as information; no drop rule; no Google Places key | Idea of dropping buildings with too few reviews |
 | 2026-11-16 | Diversity quotes stay; only quotes singling out a named group are left out | Filter that dropped any quote characterising residents by group |
 | 2026-11-16 | Fix what does not land without asking (not the owner's rules) | — |
+
+- **Thin neighborhoods (Will, 2026-11-16):** a neighborhood that would show exactly one apartment is cut unless that
+  apartment is well attested (seen live, nothing open) and promising (rank score at or above its experience's median).
+  Implemented in `scripts/rank.py`; reason `thin_neighborhood`.
